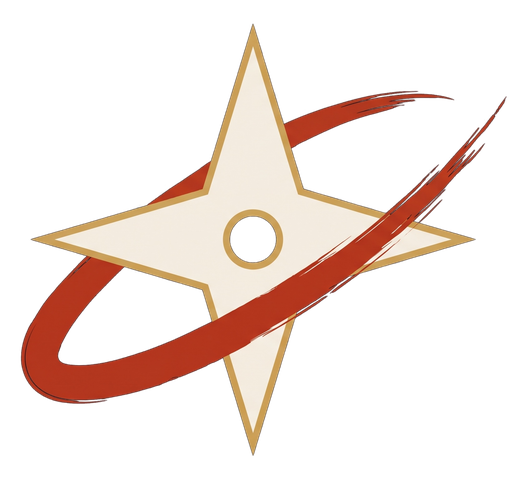
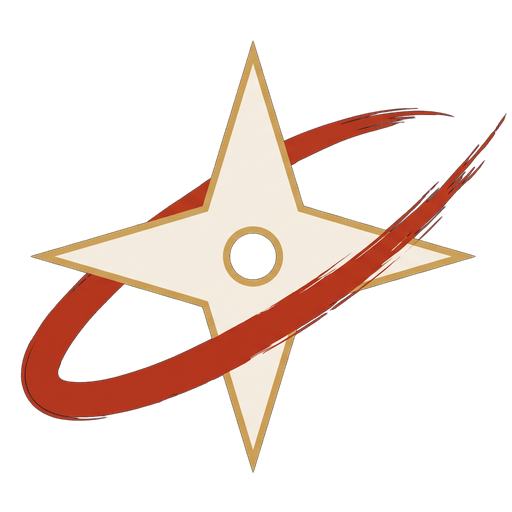
fix: アイコンを正方形にする
512x478 のままだと、faviconとして渡ったときに正方形へ引き伸ばされて
約7%横に潰れる。ページ内は object-contain なので影響しないが、favicon は
縮尺を選べない。

長辺を512に合わせ、余りは透明で埋めた。透過済みなので、足すのは透明な
余白だけで絵は変わらない。object-contain での見え方も変わらない。

あわせて docs に、app/ に icon を2枚置くと App Router が <link rel="icon">
を複数吐いてどちらがfaviconになるか決まらなくなることを書いた。別案を
比較するときに踏む。

diff --git a/docs/07-ui.md b/docs/07-ui.md
@@ -80,11 +80,17 @@
 （ストレートアルファ）。抜いただけだと、明るい地に置いたときに縁が黒く縁取られる。
 faviconはブラウザによって明るいUIの上に置かれるので、ここは実際に問題になる。
 
-### 残っている制約
+### 正方形で持つ
 
-| 制約 | 影響 |
-|---|---|
-| 正方形でない（512×478） | faviconとして約7%横に潰れる。ページ内は `object-contain` なので影響しない |
+512×512。**長辺に合わせて縮めて、余りは透明で埋める。**縦横比が1でないと、faviconとして
+渡ったときに正方形へ引き伸ばされて歪む。ページ内は `object-contain` なので影響しないが、
+faviconは縮尺を選べない。
+
+### `app/` に icon を2枚置かない
+
+App Router は `app/icon.png` だけでなく `app/icon2.png` のような**連番も拾って
+`<link rel="icon">` を複数吐く**。別案のアイコンを比較したくて `app/` に並べると、
+**どちらがfaviconになるかブラウザ任せ**になる。使わない方は `app/` の外に置く。
 
 ## 忍者モチーフ
 
